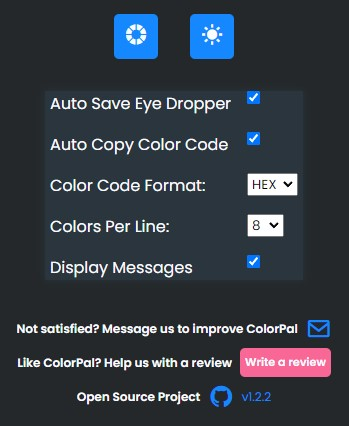
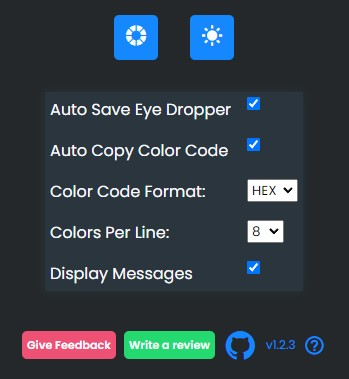
v1.2.3

diff --git a/style.css b/style.css
@@ -131,16 +131,6 @@ body.hide-animations-transitions * {
   color: var(--highlight-color);
 }
 
-.info i {
-  font-size: 2rem;
-  margin-top: 5px;
-  color: var(--highlight-color);
-}
-
-.info i:hover {
-  color: var(--highlight-hover-color);
-}
-
 .info .feedback a {
   background: #ee5173;
 }
@@ -173,6 +163,22 @@ body.hide-animations-transitions * {
 .info .github {
   display: flex;
   gap: 0.5rem;
+}
+
+.info .github i,
+.info .help i {
+  font-size: 2.2rem;
+  margin-top: 5px;
+  color: var(--highlight-color);
+}
+
+.info .help i {
+  font-size: 1.4rem;
+}
+
+.info .github i:hover,
+.help i:hover {
+  color: var(--highlight-hover-color);
 }
 
 .codes-messages {

diff --git a/popup.html b/popup.html
@@ -115,6 +115,11 @@
             ></a>
             <span>v1.2.3</span>
           </div>
+          <div class="help">
+            <a href="https://daridis.com/colorpal/onboarding" target="_blank"
+              ><i class="bx bx-help-circle"></i
+            ></a>
+          </div>
         </div>
       </div>
 

diff --git a/README.md b/README.md
@@ -1,7 +1,7 @@
 <p align="center">
-  <a href="https://chrome.google.com/webstore/detail/colorpal-color-picker-too/mbnpegpimodgjmlbfhkkdgbcfjmgpoad">
-    <img src="https://raw.githubusercontent.com/NikosDaridis/ColorPal/main/icons/icon128.png" height="128">
-    <h3 align="center">ColorPal - Color Picker Tool</h3>
+  <a href="https://chrome.google.com/webstore/detail/mbnpegpimodgjmlbfhkkdgbcfjmgpoad">
+    <img src="https://raw.githubusercontent.com/nikosdaridis/colorpal/main/icons/icon128.png" height="128">
+    <h3 align="center">ColorPal - Color Picker - Eyedropper</h3>
   </a>
 </p>
 
@@ -9,7 +9,7 @@
 
 > A color tool to extract any pixel from the screen, pick any color from a palette and save favorite colors.
 > </br>
-> Download the chrome extension <a href="https://chrome.google.com/webstore/detail/colorpal-color-picker-too/mbnpegpimodgjmlbfhkkdgbcfjmgpoad">Here</a>
+> <a href="https://chrome.google.com/webstore/detail/mbnpegpimodgjmlbfhkkdgbcfjmgpoad">Download</a> the chrome extension
 
 ---
 
@@ -28,6 +28,6 @@
 
 ### Preview
 
-<img width="300" alt="" src=https://raw.githubusercontent.com/nikosdaridis/colorpal/main/images/Screenshot1.jpg>
-<img width="300" alt="" src=https://raw.githubusercontent.com/nikosdaridis/colorpal/main/images/Screenshot2.jpg>
-<img width="300" alt="" src=https://raw.githubusercontent.com/nikosdaridis/colorpal/main/images/Screenshot3.jpg>
+<img width="350" alt="" src=https://raw.githubusercontent.com/nikosdaridis/colorpal/main/images/Screenshot1.jpg>
+<img width="350" alt="" src=https://raw.githubusercontent.com/nikosdaridis/colorpal/main/images/Screenshot2.jpg>
+<img width="350" alt="" src=https://raw.githubusercontent.com/nikosdaridis/colorpal/main/images/Screenshot3.jpg>
